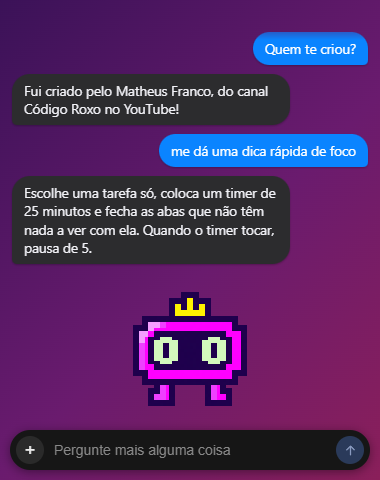
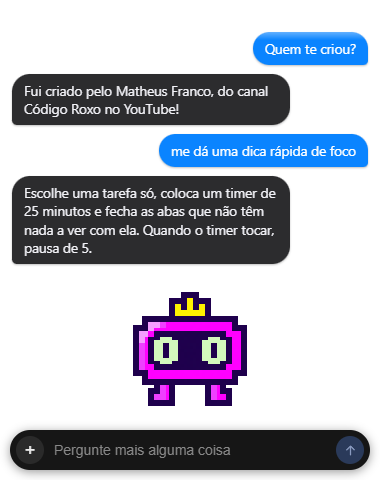
README: imagens sem fundo e topo reorganizado
GIFs e prints agora têm fundo transparente, então funcionam no tema
claro e no escuro do GitHub.

diff --git a/README.md b/README.md
@@ -1,18 +1,38 @@
 <p align="center">
-  <img src="docs/img/anim-idle.gif" width="120" alt="MascotAI" />
+  <img src="docs/img/hero.gif" width="180" alt="MascotAI" />
 </p>
 
 <h1 align="center">MascotAI</h1>
 
 <p align="center">
-  Um mascotinho que fica no canto da tela, por cima de tudo, e responde suas perguntas usando uma IA que roda no seu próprio PC.
+  Um mascotinho que fica no canto da tela, por cima de tudo,<br />
+  e responde suas perguntas usando uma IA que roda no seu próprio PC.
 </p>
 
 <p align="center">
-  <img src="docs/img/ui-chat.png" width="300" alt="Conversando com o MascotAI" />
+  <a href="../../releases/latest"><img src="https://img.shields.io/github/v/release/CodigoRoxo/MascotAI-Purpo?label=download&color=c56cf0&style=flat-square" alt="Download" /></a>
+  <img src="https://img.shields.io/badge/Windows-10%20%7C%2011-2b2b2b?style=flat-square" alt="Windows 10 e 11" />
+  <a href="https://ollama.com"><img src="https://img.shields.io/badge/IA%20local-Ollama-2b2b2b?style=flat-square" alt="Ollama" /></a>
+  <a href="LICENSE"><img src="https://img.shields.io/badge/licen%C3%A7a-MIT-2b2b2b?style=flat-square" alt="Licença MIT" /></a>
 </p>
 
----
+<p align="center">
+  <a href="#instalação">Instalação</a> ·
+  <a href="#como-usar">Como usar</a> ·
+  <a href="#configurações">Configurações</a> ·
+  <a href="#animações">Animações</a> ·
+  <a href="#próximos-passos">Próximos passos</a>
+</p>
+
+<br />
+
+<p align="center">
+  <img src="docs/img/ui-hover.png" width="250" alt="Passando o mouse" />
+  <img src="docs/img/ui-thinking.png" width="250" alt="Pensando" />
+  <img src="docs/img/ui-chat.png" width="250" alt="Respondendo" />
+</p>
+
+<br />
 
 ## A ideia
 
@@ -76,12 +96,6 @@ ollama pull llama3.2:3b
 Qualquer modelo que você já tenha no Ollama aparece na aba **Inteligência**.
 
 ## Como usar
-
-<p align="center">
-  <img src="docs/img/ui-hover.png" width="220" alt="Passando o mouse" />
-  <img src="docs/img/ui-thinking.png" width="220" alt="Pensando" />
-  <img src="docs/img/ui-chat.png" width="220" alt="Respondendo" />
-</p>
 
 | Ação | O que acontece |
 |---|---|
